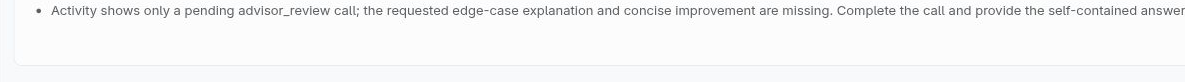
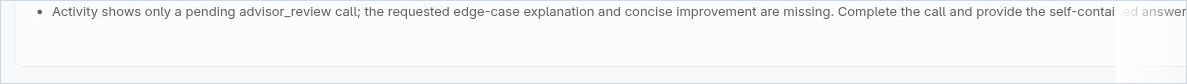
Polish README presentation and screenshots
- Recrop screenshots: drop the empty bottom half of history.png, the
  half-cut card remnant atop settings.png, and the redundant header bar
  in panel.png; fade the right edge where the capture truncates text so
  the cut reads as intentional; frame all four in a 1px border so they
  no longer bleed into GitHub's background.
- Reorder the header: badges up under the tagline, hero below them.
- Move Install and Configure up, ahead of the deep-dive sections, and
  inline the settings screenshot into Configure instead of hiding it in
  a details block at the top.
- Add a Mermaid state diagram of the finding lifecycle.
- Caption the panel screenshot's dogfooding story: the finding shown is
  Advisor flagging a stale screenshot in this same README.
- Convert the full-trust security paragraph to a GitHub alert, add the
  bb version badge, and note the Node 22 requirement.

Claude-Session: https://claude.ai/code/session_01RtFj6F6knqncNGAyv7rscC

Changed region(s): [[0.0, 0.0, 1.0, 1.0]]

diff --git a/README.md b/README.md
@@ -2,12 +2,13 @@
 
 > A persistent, independent reviewer for bb coding threads.
 
+[![CI](https://github.com/salemsayed/bb-plugin-advisor/actions/workflows/ci.yml/badge.svg)](https://github.com/salemsayed/bb-plugin-advisor/actions/workflows/ci.yml)
+[![License: MIT](https://img.shields.io/badge/license-MIT-blue.svg)](./LICENSE)
+[![bb ≥ 0.35](https://img.shields.io/badge/bb-%E2%89%A5%200.35-8b5cf6.svg)](#install)
+
 <p align="center">
   <img src="./docs/media/advisor-hero.svg" alt="Advisor — an independent reviewer on every coding thread" width="100%" />
 </p>
-
-[![CI](https://github.com/salemsayed/bb-plugin-advisor/actions/workflows/ci.yml/badge.svg)](https://github.com/salemsayed/bb-plugin-advisor/actions/workflows/ci.yml)
-[![License: MIT](https://img.shields.io/badge/license-MIT-blue.svg)](./LICENSE)
 
 Advisor pairs every coding thread with a second model that reviews the work —
 before the agent finishes its answer, and again after the turn completes. The
@@ -25,19 +26,9 @@ that cannot run reports as *unavailable*, never as approval.
 | --- | --- |
 | ![Advisor panel showing an open finding with evidence and decision controls](./docs/media/panel.png) | ![Advisor history showing independently re-checked findings](./docs/media/history.png) |
 
-<details>
-<summary><strong>Configuration</strong></summary>
-
-![Advisor settings, including optional auto-continue and per-machine reviewer selection](./docs/media/settings.png)
-
-</details>
-
-<details>
-<summary><strong>Reviewer evidence</strong></summary>
-
-![Advisor's expanded reviewer output with a stable finding key and supporting evidence](./docs/media/reviewer-work.png)
-
-</details>
+<sub>The finding on the left is real: while this release was being prepared,
+Advisor reviewed the repository and flagged a stale screenshot in this very
+README. It was recaptured — the screenshot above is the replacement.</sub>
 
 ## Why
 
@@ -84,80 +75,6 @@ whole bounded queue into that turn — delivering one finding never silently
 consumes its siblings. Advice older than 24 hours is retired rather than
 injected stale.
 
-## The life of a finding
-
-The advisor assigns each finding a stable `key` naming the defect itself. A
-later round carrying the same key joins that finding's chain even when it is
-reworded or rated differently. Every finding carries its own lifecycle, shown
-in the thread panel:
-
-- **Queued** — found, but its text has not reached the primary agent yet.
-- **Sent to the agent** — set at the two moments the finding is actually
-  handed over: the tool result, and injection into the next turn's
-  instructions. *Sent is not resolved* — it only means the agent has seen the
-  text.
-- **Re-raised N×** — the advisor flagged it again, so it demonstrably was not
-  addressed.
-- **Advisor re-checked and closed it** — the reviewer is shown its own open
-  findings each round and may name keys on a `resolved:` line that it verified
-  are fixed. Silence never closes anything, it cannot close a key it did not
-  raise on this thread, and it cannot raise and close the same defect in one
-  result. Closure is provisional: a later round of the same key reopens the
-  chain, because a finding that comes back is a regression.
-- **Decided by the user** — **Not an issue** or **Won't fix**, with an
-  optional note, stored on the chain root. A user cannot self-certify a fix:
-  **Fixed** is established only when a later Advisor round re-checks and
-  closes the finding. (Existing legacy `fixed` decisions remain readable.) A
-  user decision is authoritative — later matching rounds stay in history but
-  never reopen it. Reopening clears the decision and any advisor closure
-  together.
-
-Findings resolved before decisions were recorded keep rendering as a plain
-dismissal rather than being backfilled with a guess.
-
-Matching normalized advice text is the fallback, used both when the advisor
-supplies no key and when a keyed finding misses — which is how a chain that
-predates keys stays continuous instead of splitting and softening on its first
-keyed round. That fallback applies only above a length floor: terse generic
-wording would otherwise merge unrelated findings and hand one an inherited
-severity it never earned.
-
-Reviews are persisted in the plugin's SQLite database, keyed by primary thread
-and timeline sequence. Deleting a primary thread deletes its review history;
-archiving keeps it.
-
-## When a review cannot run
-
-When the advisor cannot run — the provider does not support the reviewer's
-permission mode and no advisor model is configured, the reviewer thread fails
-to start, the review exceeds the timeout, or the primary turn fails or ends
-without a completed public answer — the tool reports `Advisor unavailable`
-with the reason. No review row is recorded, and pending advice from an earlier
-turn stays pending. A waiting **Review now** request is settled as unavailable
-and can be retried instead of remaining stuck. Cancelling the primary turn
-stops the reviewer thread.
-
-## The reviewer thread
-
-Reviewer threads are hidden and reused so the advisor keeps its own context. A
-session is bound to the environment it was spawned into; if the primary thread
-moves, the reviewer is respawned rather than left inspecting the old checkout.
-
-The reviewer's permission mode is negotiated per review against what the
-provider actually advertises, narrowest first: `readonly` when bb offers it,
-otherwise `accept-edits`. Pinning either would be wrong — `readonly` reports
-every review as unavailable on a bb released before that mode existed, and
-`accept-edits` keeps handing the reviewer workspace write access on a bb that
-has something narrower. A session spawned under a wider mode is retired rather
-than reused once a narrower one becomes available, so upgrading bb tightens
-the reviewer without any action.
-
-When the provider catalog cannot be read, the mode is probed narrowest-first
-rather than assumed: the reviewer asks for `readonly`, and only a refusal
-moves it to `accept-edits`. A mode the host accepted before is tried first, so
-the probe costs nothing on the common path. A transient outage therefore
-neither disables reviews nor silently widens them.
-
 ## Install
 
 Requires bb ≥ 0.35.
@@ -177,6 +94,8 @@ bb plugin install . --yes
 ## Configure
 
 All settings live in **Settings → Extensions → Advisor**.
+
+![Advisor settings, including optional auto-continue and per-machine reviewer selection](./docs/media/settings.png)
 
 | Setting | Default | Notes |
 | --- | --- | --- |
@@ -224,6 +143,104 @@ finding cannot create an unattended review loop.
 Place project-specific reviewer policy in `WATCHDOG.md` at the workspace root.
 The reviewer reads it before each review; the filename is configurable.
 
+## The life of a finding
+
+The advisor assigns each finding a stable `key` naming the defect itself. A
+later round carrying the same key joins that finding's chain even when it is
+reworded or rated differently.
+
+```mermaid
+stateDiagram-v2
+    direction LR
+    state "Re-raised" as Reraised
+    [*] --> Queued : advisor raises a finding
+    Queued --> Sent : tool result or next-turn injection
+    Sent --> Reraised : flagged again
+    Reraised --> Sent : held at strongest severity
+    Sent --> Closed : advisor re-checks and closes
+    Closed --> Reraised : same key returns
+    Sent --> Decided : user rules not an issue or won't fix
+    Closed --> [*]
+    Decided --> [*]
+```
+
+Every finding carries its own lifecycle, shown in the thread panel:
+
+- **Queued** — found, but its text has not reached the primary agent yet.
+- **Sent to the agent** — set at the two moments the finding is actually
+  handed over: the tool result, and injection into the next turn's
+  instructions. *Sent is not resolved* — it only means the agent has seen the
+  text.
+- **Re-raised N×** — the advisor flagged it again, so it demonstrably was not
+  addressed.
+- **Advisor re-checked and closed it** — the reviewer is shown its own open
+  findings each round and may name keys on a `resolved:` line that it verified
+  are fixed. Silence never closes anything, it cannot close a key it did not
+  raise on this thread, and it cannot raise and close the same defect in one
+  result. Closure is provisional: a later round of the same key reopens the
+  chain, because a finding that comes back is a regression.
+- **Decided by the user** — **Not an issue** or **Won't fix**, with an
+  optional note, stored on the chain root. A user cannot self-certify a fix:
+  **Fixed** is established only when a later Advisor round re-checks and
+  closes the finding. (Existing legacy `fixed` decisions remain readable.) A
+  user decision is authoritative — later matching rounds stay in history but
+  never reopen it. Reopening clears the decision and any advisor closure
+  together.
+
+Findings resolved before decisions were recorded keep rendering as a plain
+dismissal rather than being backfilled with a guess.
+
+Matching normalized advice text is the fallback, used both when the advisor
+supplies no key and when a keyed finding misses — which is how a chain that
+predates keys stays continuous instead of splitting and softening on its first
+keyed round. That fallback applies only above a length floor: terse generic
+wording would otherwise merge unrelated findings and hand one an inherited
+severity it never earned.
+
+Reviews are persisted in the plugin's SQLite database, keyed by primary thread
+and timeline sequence. Deleting a primary thread deletes its review history;
+archiving keeps it.
+
+<details>
+<summary><strong>Reviewer evidence</strong> — every finding links to the reviewer's own workings</summary>
+<br />
+
+![Advisor's expanded reviewer output with a stable finding key and supporting evidence](./docs/media/reviewer-work.png)
+
+</details>
+
+## When a review cannot run
+
+When the advisor cannot run — the provider does not support the reviewer's
+permission mode and no advisor model is configured, the reviewer thread fails
+to start, the review exceeds the timeout, or the primary turn fails or ends
+without a completed public answer — the tool reports `Advisor unavailable`
+with the reason. No review row is recorded, and pending advice from an earlier
+turn stays pending. A waiting **Review now** request is settled as unavailable
+and can be retried instead of remaining stuck. Cancelling the primary turn
+stops the reviewer thread.
+
+## The reviewer thread
+
+Reviewer threads are hidden and reused so the advisor keeps its own context. A
+session is bound to the environment it was spawned into; if the primary thread
+moves, the reviewer is respawned rather than left inspecting the old checkout.
+
+The reviewer's permission mode is negotiated per review against what the
+provider actually advertises, narrowest first: `readonly` when bb offers it,
+otherwise `accept-edits`. Pinning either would be wrong — `readonly` reports
+every review as unavailable on a bb released before that mode existed, and
+`accept-edits` keeps handing the reviewer workspace write access on a bb that
+has something narrower. A session spawned under a wider mode is retired rather
+than reused once a narrower one becomes available, so upgrading bb tightens
+the reviewer without any action.
+
+When the provider catalog cannot be read, the mode is probed narrowest-first
+rather than assumed: the reviewer asks for `readonly`, and only a refusal
+moves it to `accept-edits`. A mode the host accepted before is tried first, so
+the probe costs nothing on the common path. A transient outage therefore
+neither disables reviews nor silently widens them.
+
 ## Inspect
 
 ```sh
@@ -234,10 +251,11 @@ bb plugin logs advisor -f
 
 ## Security and trust
 
-Like every bb plugin, Advisor is full-trust code: its server runs inside your
-bb server, not in a sandbox, with access to the plugin SDK, its own database,
-and thread orchestration. Read the source before installing — this repository
-is small on purpose.
+> [!IMPORTANT]
+> Like every bb plugin, Advisor is full-trust code: its server runs inside
+> your bb server, not in a sandbox, with access to the plugin SDK, its own
+> database, and thread orchestration. Read the source before installing —
+> this repository is small on purpose.
 
 The reviewer itself is constrained by the negotiated permission mode, with one
 caveat: bb only gained a first-class `readonly` mode recently, so on an older
@@ -248,6 +266,8 @@ remains the provider's responsibility, so provider-specific non-workspace
 capabilities must still be assessed by that provider.
 
 ## Development
+
+Requires Node 22.
 
 ```sh
 npm ci
